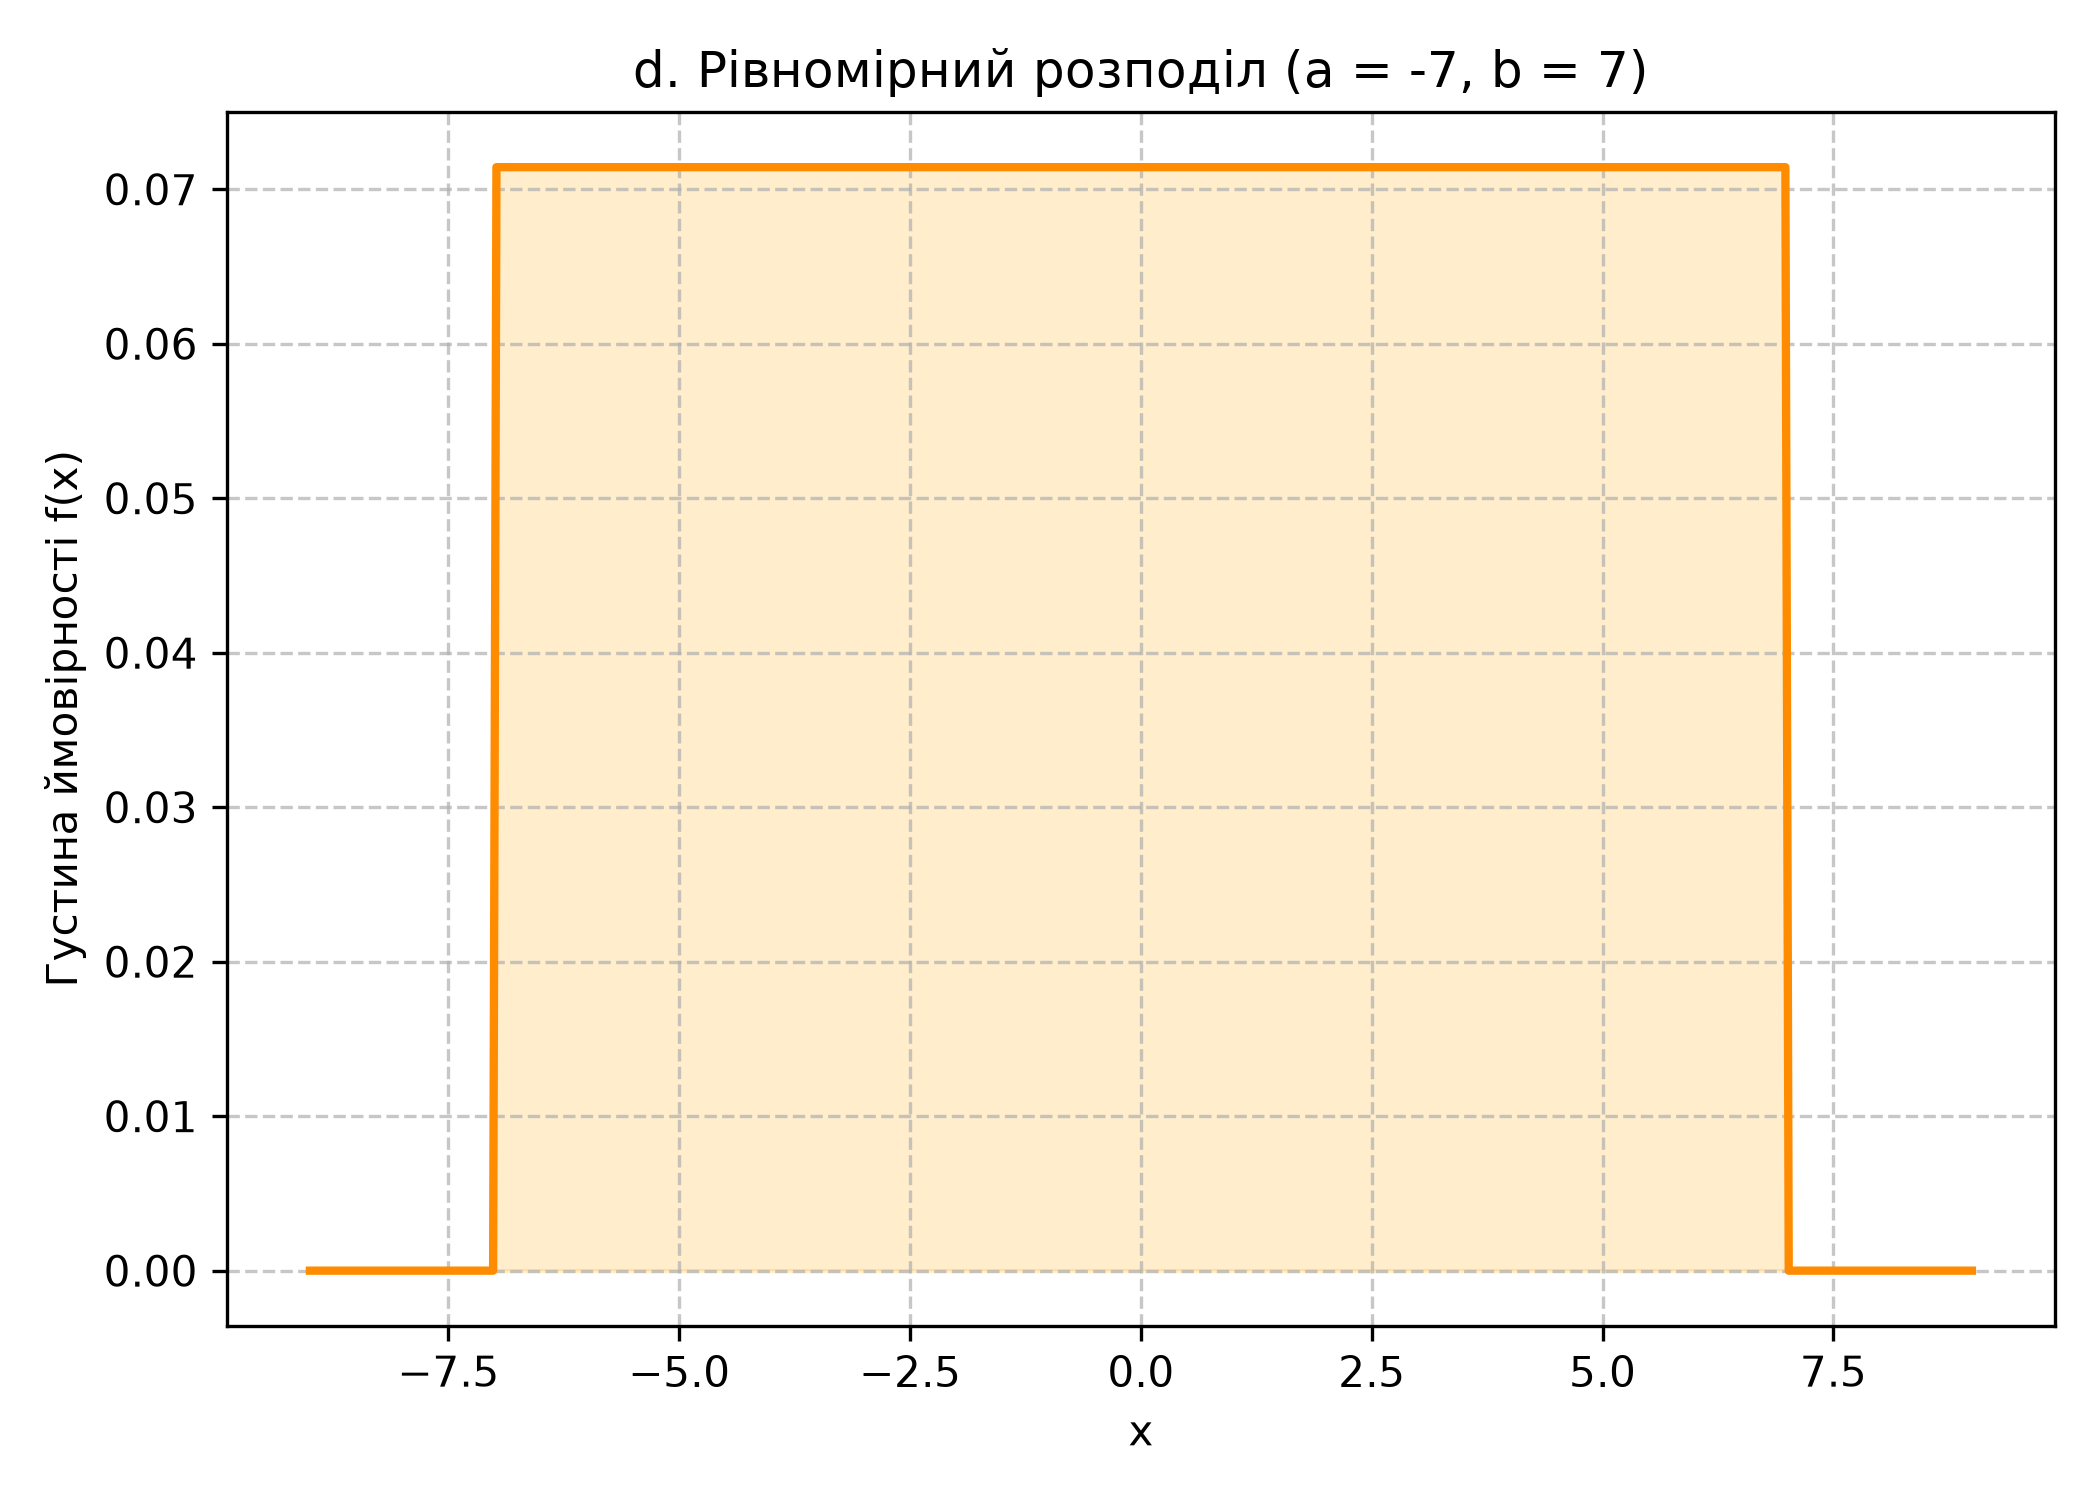
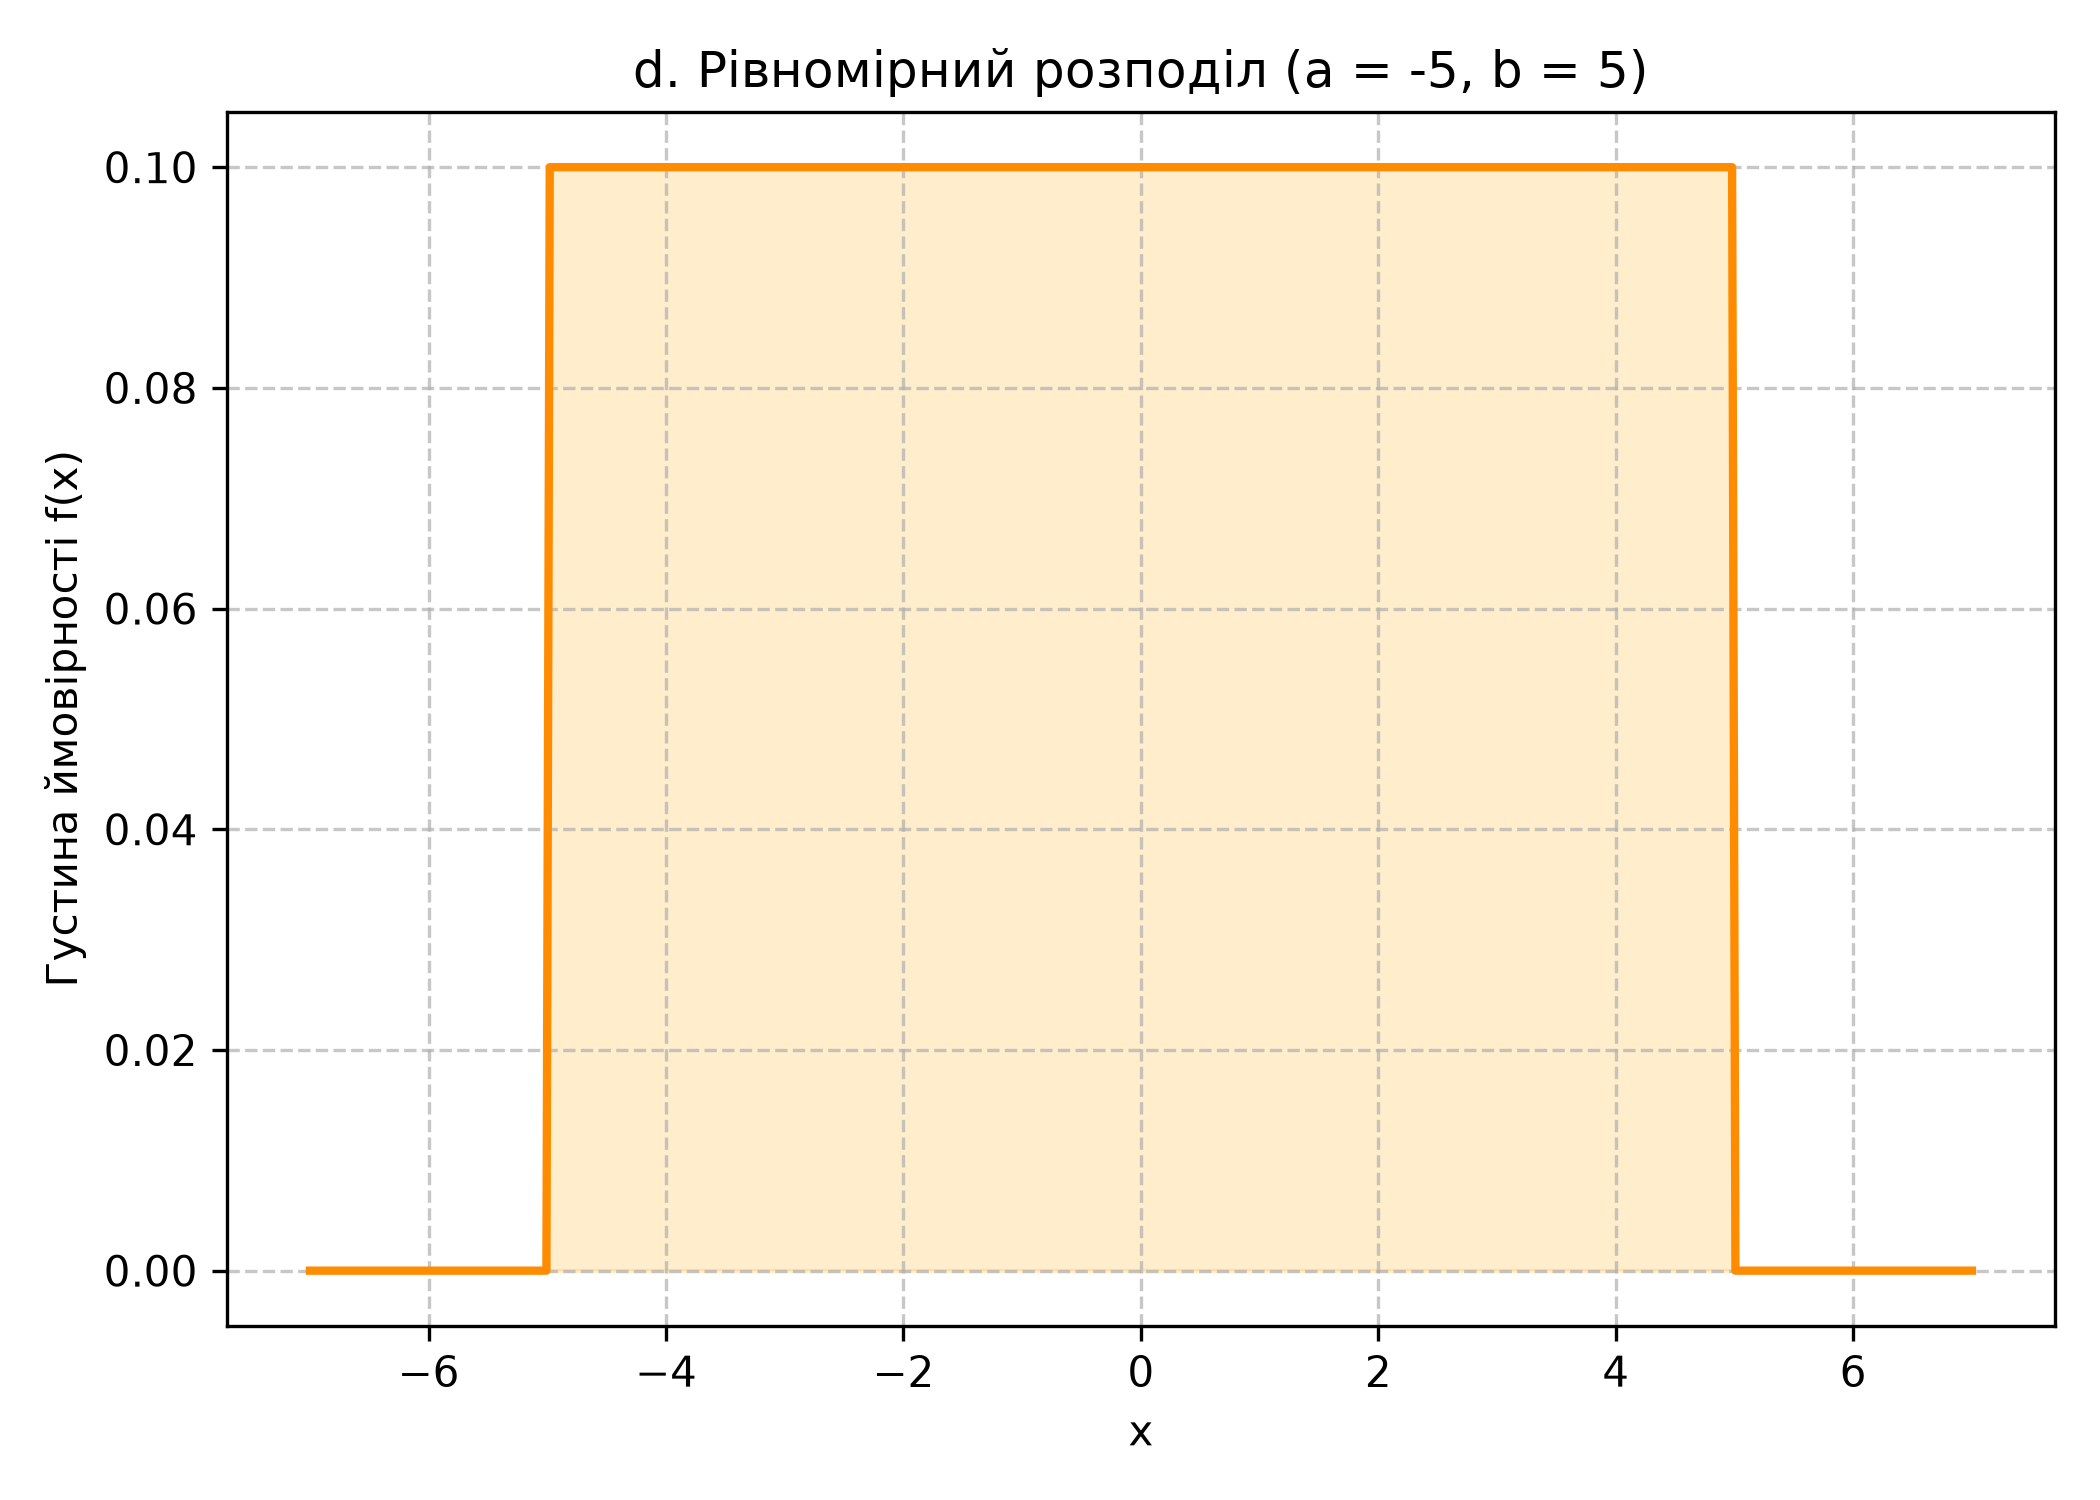
Correct lab 1 to variant 5

diff --git a/lab01/main.py b/lab01/main.py
@@ -4,7 +4,7 @@ import matplotlib.pyplot as plt
 from scipy import stats
 
 # Порядковий номер варіанта за журналом
-N = 7
+N = 5
 
 output_dir = "plots"
 os.makedirs(output_dir, exist_ok=True)

diff --git a/lab01/README.md b/lab01/README.md
@@ -2,22 +2,22 @@
 
 ## Розподіли випадкових величин: неперервні та дискретні
 
-**Варіант:** 7  
-**Порядковий номер студента:** $N = 7$
+**Варіант:** 5  
+**Порядковий номер студента:** $N = 5$
 
 Програма обчислює параметри заданих розподілів випадкових величин, будує відповідні графіки та зберігає їх у папку `plots`.
 
 ## Використані розподіли
 
-| Позначення | Розподіл | Параметри для варіанта 7 |
+| Позначення | Розподіл | Параметри для варіанта 5 |
 |---|---|---|
-| a | Бернуллі | $p = \frac{1}{N+1} = 0.125$ |
-| b | Біноміальний | $n = N+2 = 9$, $p = 0.125$ |
-| c | Пуассона | $\lambda = N+10 = 17$, $k_{max}=N+5=12$ |
-| d | Рівномірний | $a=-N=-7$, $b=N=7$ |
-| e | Нормальний | $\mu=N=7$, $\sigma^2=\frac{N}{2}=3.5$ |
-| f | Парето | $\alpha=x_0=N=7$ |
-| g | Стьюдента | кількість ступенів вільності $df=N=7$ |
+| a | Бернуллі | $p = \frac{1}{N+1} = \frac{1}{6} \approx 0.167$ |
+| b | Біноміальний | $n = N+2 = 7$, $p = \frac{1}{6} \approx 0.167$ |
+| c | Пуассона | $\lambda = N+10 = 15$, $k_{max}=N+5=10$ |
+| d | Рівномірний | $a=-N=-5$, $b=N=5$ |
+| e | Нормальний | $\mu=N=5$, $\sigma^2=\frac{N}{2}=2.5$ |
+| f | Парето | $\alpha=x_0=N=5$ |
+| g | Стьюдента | кількість ступенів вільності $df=N=5$ |
 
 ## Результати
 
